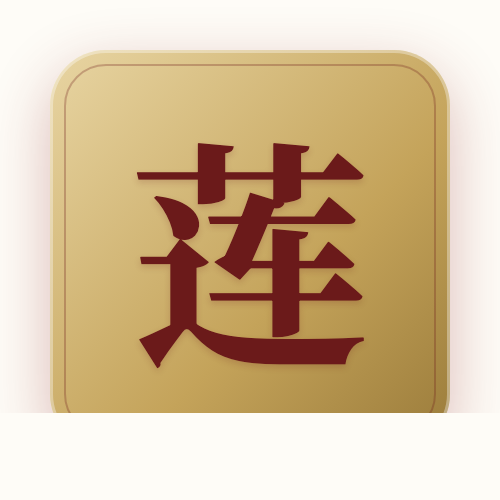
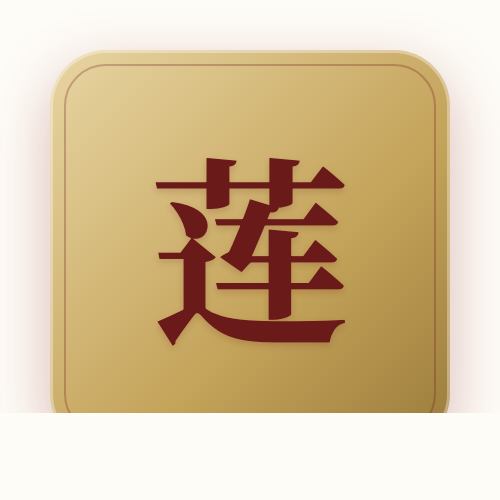
Fix share.png: reduce 莲 font-size so bottom stroke has breathing room
Previous 240px was too tight — 辶 radical of 莲 appeared cramped against
the bottom of the gold frame. Dropping to 200px with a slight upward
shift centers the glyph cleanly in the box.

Changed region(s): [[0.27, 0.27, 0.72, 0.75]]

diff --git a/index.html b/index.html
@@ -11,8 +11,8 @@
     <meta property="og:image" content="https://liandjd.com/share.png">
     <meta property="og:type" content="website">
     <meta property="og:url" content="https://liandjd.com/">
-    <link rel="icon" type="image/png" href="/share.png">
-    <link rel="apple-touch-icon" href="/share.png">
+    <link rel="icon" type="image/png" href="/share.png?v=2">
+    <link rel="apple-touch-icon" href="/share.png?v=2">
     <link rel="preconnect" href="https://fonts.googleapis.com">
     <link rel="preconnect" href="https://fonts.gstatic.com" crossorigin>
     <link href="https://fonts.googleapis.com/css2?family=Noto+Serif+SC:wght@400;500;600;700&display=swap" rel="stylesheet">
